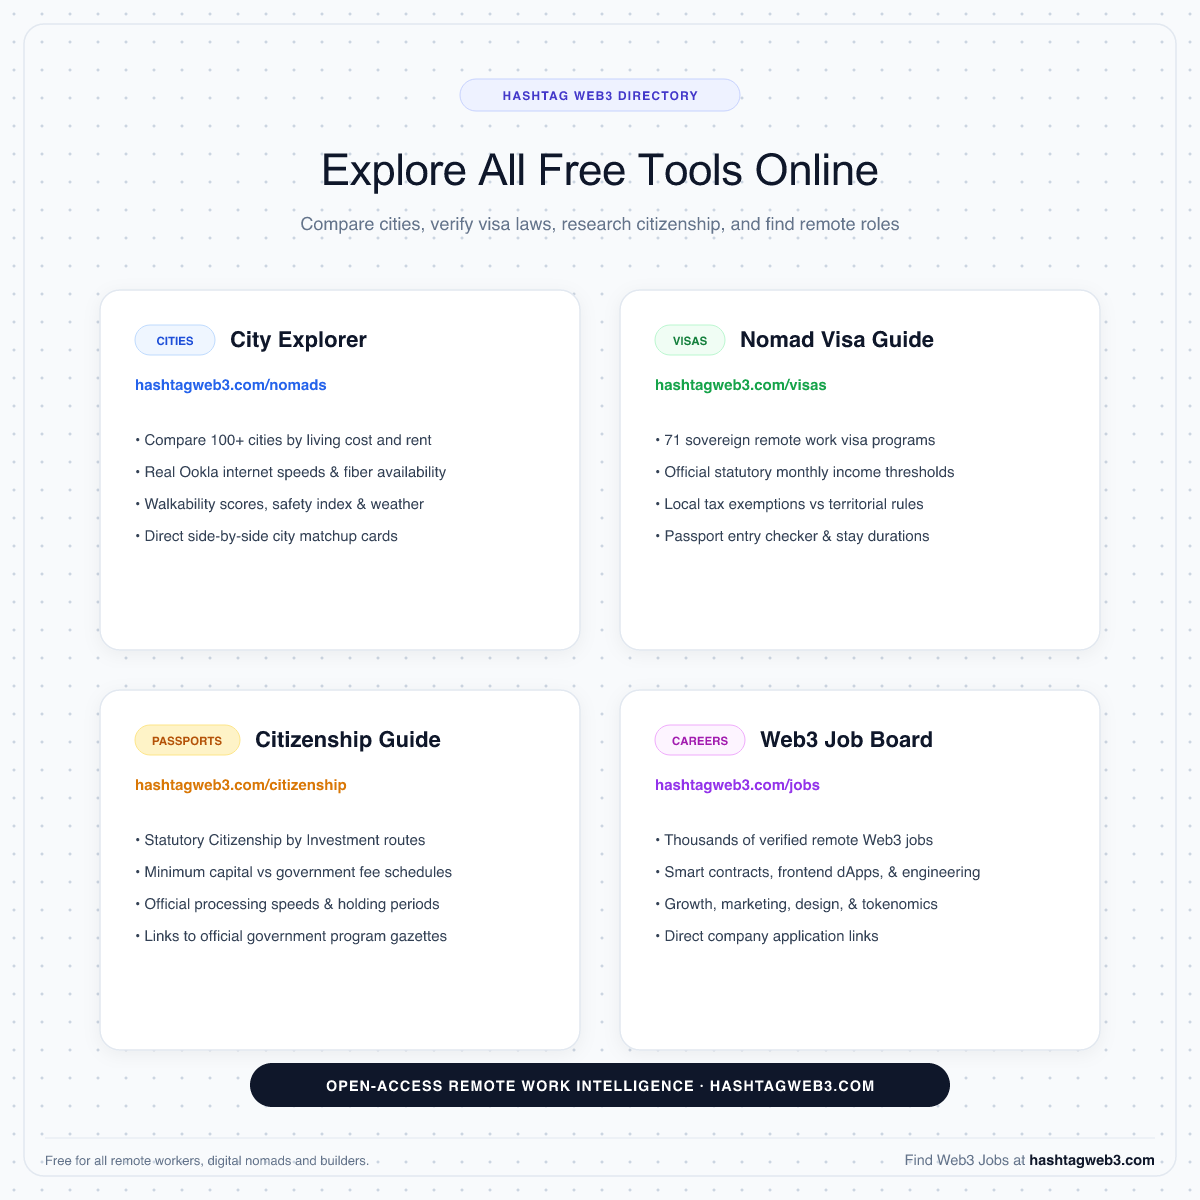
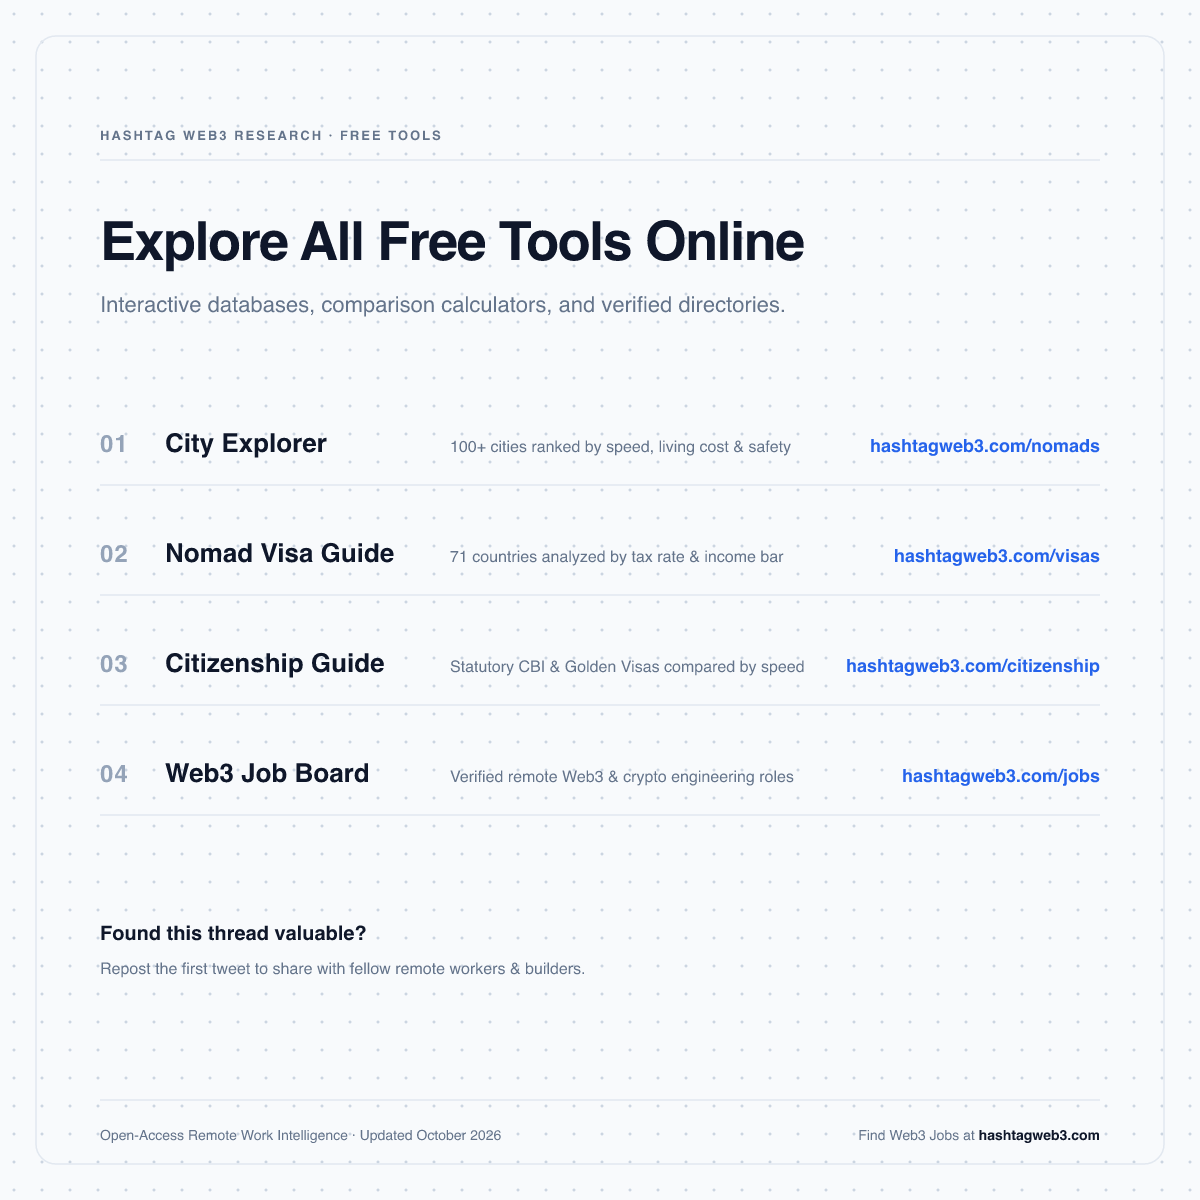
feat(social): redesign thread outro card with minimal Swiss typography (no pills, no cards)

diff --git a/scripts/generate-thread-cover-outro.ts b/scripts/generate-thread-cover-outro.ts
@@ -125,109 +125,82 @@ function buildCoverSvg(): string {
 }
 
 function buildOutroSvg(): string {
-  return `<svg width="1200" height="1200" viewBox="0 0 1200 1200" xmlns="http://www.w3.org/2000/svg" style="background:#FFFFFF; font-family:system-ui,-apple-system,'SF Pro Display','Segoe UI',Roboto,Helvetica,sans-serif;">
+  return `<svg width="1200" height="1200" viewBox="0 0 1200 1200" xmlns="http://www.w3.org/2000/svg" style="background:#F8FAFC; font-family:system-ui,-apple-system,'SF Pro Display','Segoe UI',Roboto,Helvetica,sans-serif;">
   <defs>
     <!-- Dot Grid Pattern -->
     <pattern id="dotGridOutro" width="28" height="28" patternUnits="userSpaceOnUse">
       <circle cx="14" cy="14" r="1.5" fill="#CBD5E1" />
     </pattern>
-    <filter id="outroShadow" x="-5%" y="-5%" width="110%" height="110%">
-      <feDropShadow dx="0" dy="4" stdDeviation="8" flood-color="#0F172A" flood-opacity="0.05"/>
-    </filter>
   </defs>
 
-  <!-- Background Canvas -->
-  <rect width="1200" height="1200" fill="#F8FAFC"/>
-  <rect width="1200" height="1200" fill="url(#dotGridOutro)"/>
-  <rect x="24" y="24" width="1152" height="1152" rx="20" fill="none" stroke="#E2E8F0" stroke-width="1.5"/>
+  <!-- Background Canvas with Dot Grid -->
+  <rect width="1200" height="1200" fill="#F8FAFC" />
+  <rect width="1200" height="1200" fill="url(#dotGridOutro)" />
+  <rect x="36" y="36" width="1128" height="1128" rx="20" fill="none" stroke="#E2E8F0" stroke-width="1.5" />
 
-  <!-- Top Category Pill -->
-  <g transform="translate(600, 95)">
-    <rect x="-140" y="-16" width="280" height="32" rx="16" fill="#EEF2FF" stroke="#C7D2FE" stroke-width="1"/>
-    <text x="0" y="5" text-anchor="middle" font-size="12" font-weight="700" fill="#4338CA" letter-spacing="1.2">HASHTAG WEB3 DIRECTORY</text>
+  <!-- Top Kicker Header -->
+  <g transform="translate(100, 140)">
+    <text x="0" y="0" font-size="13" font-weight="800" fill="#64748B" letter-spacing="2">HASHTAG WEB3 RESEARCH · FREE TOOLS</text>
+    <line x1="0" y1="20" x2="1000" y2="20" stroke="#E2E8F0" stroke-width="1.5" />
   </g>
 
-  <!-- Main Headline -->
-  <text x="600" y="185" text-anchor="middle" font-family="-apple-system, BlinkMacSystemFont, 'SF Pro Display', 'Segoe UI', Roboto, sans-serif" font-size="44" font-weight="800" fill="#0F172A" letter-spacing="-0.5px">Explore All Free Tools Online</text>
-  <text x="600" y="230" text-anchor="middle" font-size="18" font-weight="500" fill="#64748B">Compare cities, verify visa laws, research citizenship, and find remote roles</text>
+  <!-- Big Bold Headline & Subtitle (Minimal, No Fluff) -->
+  <g transform="translate(100, 260)">
+    <text x="0" y="0" font-size="54" font-weight="900" fill="#0F172A" letter-spacing="-1.5px">Explore All Free Tools Online</text>
+    <text x="0" y="52" font-size="22" font-weight="500" fill="#64748B">Interactive databases, comparison calculators, and verified directories.</text>
+  </g>
 
-  <!-- 4 Core Resources Grid -->
-  <g transform="translate(100, 290)">
-    <!-- Resource 1: City Explorer -->
+  <!-- 4 Clean Typographic Directory Rows (Zero Pills, Zero Cards, Zero AI Slop) -->
+  <g transform="translate(100, 420)">
+    <!-- Row 1: Cities -->
     <g transform="translate(0, 0)">
-      <rect width="480" height="360" rx="20" fill="#FFFFFF" stroke="#E2E8F0" stroke-width="1.5" filter="url(#outroShadow)"/>
-      <rect x="35" y="35" width="80" height="30" rx="15" fill="#EFF6FF" stroke="#BFDBFE" stroke-width="1"/>
-      <text x="75" y="55" text-anchor="middle" font-size="11.5" font-weight="700" fill="#1D4ED8">CITIES</text>
-      <text x="130" y="57" font-size="22" font-weight="700" fill="#0F172A">City Explorer</text>
-      <text x="35" y="100" font-size="15" font-weight="600" fill="#2563EB">hashtagweb3.com/nomads</text>
-      
-      <text x="35" y="155" font-size="15" font-weight="500" fill="#334155">
-        <tspan x="35" dy="0">• Compare 100+ cities by living cost and rent</tspan>
-        <tspan x="35" dy="32">• Real Ookla internet speeds &amp; fiber availability</tspan>
-        <tspan x="35" dy="32">• Walkability scores, safety index &amp; weather</tspan>
-        <tspan x="35" dy="32">• Direct side-by-side city matchup cards</tspan>
-      </text>
+      <text x="0" y="32" font-size="24" font-weight="800" fill="#94A3B8" letter-spacing="1">01</text>
+      <text x="65" y="32" font-size="26" font-weight="800" fill="#0F172A">City Explorer</text>
+      <text x="350" y="32" font-size="16" font-weight="500" fill="#64748B">100+ cities ranked by speed, living cost &amp; safety</text>
+      <text x="1000" y="32" text-anchor="end" font-size="18" font-weight="700" fill="#2563EB">hashtagweb3.com/nomads</text>
+      <line x1="0" y1="65" x2="1000" y2="65" stroke="#E2E8F0" stroke-width="1.5" />
     </g>
 
-    <!-- Resource 2: Nomad Visas -->
-    <g transform="translate(520, 0)">
-      <rect width="480" height="360" rx="20" fill="#FFFFFF" stroke="#E2E8F0" stroke-width="1.5" filter="url(#outroShadow)"/>
-      <rect x="35" y="35" width="70" height="30" rx="15" fill="#F0FDF4" stroke="#BBF7D0" stroke-width="1"/>
-      <text x="70" y="55" text-anchor="middle" font-size="11.5" font-weight="700" fill="#15803D">VISAS</text>
-      <text x="120" y="57" font-size="22" font-weight="700" fill="#0F172A">Nomad Visa Guide</text>
-      <text x="35" y="100" font-size="15" font-weight="600" fill="#16A34A">hashtagweb3.com/visas</text>
-
-      <text x="35" y="155" font-size="15" font-weight="500" fill="#334155">
-        <tspan x="35" dy="0">• 71 sovereign remote work visa programs</tspan>
-        <tspan x="35" dy="32">• Official statutory monthly income thresholds</tspan>
-        <tspan x="35" dy="32">• Local tax exemptions vs territorial rules</tspan>
-        <tspan x="35" dy="32">• Passport entry checker &amp; stay durations</tspan>
-      </text>
+    <!-- Row 2: Visas -->
+    <g transform="translate(0, 110)">
+      <text x="0" y="32" font-size="24" font-weight="800" fill="#94A3B8" letter-spacing="1">02</text>
+      <text x="65" y="32" font-size="26" font-weight="800" fill="#0F172A">Nomad Visa Guide</text>
+      <text x="350" y="32" font-size="16" font-weight="500" fill="#64748B">71 countries analyzed by tax rate &amp; income bar</text>
+      <text x="1000" y="32" text-anchor="end" font-size="18" font-weight="700" fill="#2563EB">hashtagweb3.com/visas</text>
+      <line x1="0" y1="65" x2="1000" y2="65" stroke="#E2E8F0" stroke-width="1.5" />
     </g>
 
-    <!-- Resource 3: Passports & Citizenship -->
-    <g transform="translate(0, 400)">
-      <rect width="480" height="360" rx="20" fill="#FFFFFF" stroke="#E2E8F0" stroke-width="1.5" filter="url(#outroShadow)"/>
-      <rect x="35" y="35" width="105" height="30" rx="15" fill="#FEF3C7" stroke="#FDE68A" stroke-width="1"/>
-      <text x="87" y="55" text-anchor="middle" font-size="11.5" font-weight="700" fill="#B45309">PASSPORTS</text>
-      <text x="155" y="57" font-size="22" font-weight="700" fill="#0F172A">Citizenship Guide</text>
-      <text x="35" y="100" font-size="15" font-weight="600" fill="#D97706">hashtagweb3.com/citizenship</text>
-
-      <text x="35" y="155" font-size="15" font-weight="500" fill="#334155">
-        <tspan x="35" dy="0">• Statutory Citizenship by Investment routes</tspan>
-        <tspan x="35" dy="32">• Minimum capital vs government fee schedules</tspan>
-        <tspan x="35" dy="32">• Official processing speeds &amp; holding periods</tspan>
-        <tspan x="35" dy="32">• Links to official government program gazettes</tspan>
-      </text>
+    <!-- Row 3: Citizenship -->
+    <g transform="translate(0, 220)">
+      <text x="0" y="32" font-size="24" font-weight="800" fill="#94A3B8" letter-spacing="1">03</text>
+      <text x="65" y="32" font-size="26" font-weight="800" fill="#0F172A">Citizenship Guide</text>
+      <text x="350" y="32" font-size="16" font-weight="500" fill="#64748B">Statutory CBI &amp; Golden Visas compared by speed</text>
+      <text x="1000" y="32" text-anchor="end" font-size="18" font-weight="700" fill="#2563EB">hashtagweb3.com/citizenship</text>
+      <line x1="0" y1="65" x2="1000" y2="65" stroke="#E2E8F0" stroke-width="1.5" />
     </g>
 
-    <!-- Resource 4: Web3 Job Board -->
-    <g transform="translate(520, 400)">
-      <rect width="480" height="360" rx="20" fill="#FFFFFF" stroke="#E2E8F0" stroke-width="1.5" filter="url(#outroShadow)"/>
-      <rect x="35" y="35" width="90" height="30" rx="15" fill="#FDF4FF" stroke="#F0ABFC" stroke-width="1"/>
-      <text x="80" y="55" text-anchor="middle" font-size="11.5" font-weight="700" fill="#A21CAF">CAREERS</text>
-      <text x="140" y="57" font-size="22" font-weight="700" fill="#0F172A">Web3 Job Board</text>
-      <text x="35" y="100" font-size="15" font-weight="600" fill="#9333EA">hashtagweb3.com/jobs</text>
-
-      <text x="35" y="155" font-size="15" font-weight="500" fill="#334155">
-        <tspan x="35" dy="0">• Thousands of verified remote Web3 jobs</tspan>
-        <tspan x="35" dy="32">• Smart contracts, frontend dApps, &amp; engineering</tspan>
-        <tspan x="35" dy="32">• Growth, marketing, design, &amp; tokenomics</tspan>
-        <tspan x="35" dy="32">• Direct company application links</tspan>
-      </text>
+    <!-- Row 4: Careers -->
+    <g transform="translate(0, 330)">
+      <text x="0" y="32" font-size="24" font-weight="800" fill="#94A3B8" letter-spacing="1">04</text>
+      <text x="65" y="32" font-size="26" font-weight="800" fill="#0F172A">Web3 Job Board</text>
+      <text x="350" y="32" font-size="16" font-weight="500" fill="#64748B">Verified remote Web3 &amp; crypto engineering roles</text>
+      <text x="1000" y="32" text-anchor="end" font-size="18" font-weight="700" fill="#2563EB">hashtagweb3.com/jobs</text>
+      <line x1="0" y1="65" x2="1000" y2="65" stroke="#E2E8F0" stroke-width="1.5" />
     </g>
   </g>
 
-  <!-- Bottom CTA Pill -->
-  <g transform="translate(600, 1085)">
-    <rect x="-350" y="-22" width="700" height="44" rx="22" fill="#0F172A"/>
-    <text x="0" y="6" text-anchor="middle" font-size="14.5" font-weight="700" fill="#FFFFFF" letter-spacing="1">OPEN-ACCESS REMOTE WORK INTELLIGENCE · HASHTAGWEB3.COM</text>
+  <!-- Bottom Direct CTA -->
+  <g transform="translate(100, 940)">
+    <text x="0" y="0" font-size="20" font-weight="800" fill="#0F172A">Found this thread valuable?</text>
+    <text x="0" y="34" font-size="16" font-weight="500" fill="#64748B">Repost the first tweet to share with fellow remote workers &amp; builders.</text>
   </g>
 
-  <!-- Footer Footnotes & Watermark -->
-  <line x1="45" y1="1138" x2="1155" y2="1138" stroke="#E2E8F0" stroke-width="1"/>
-  <text x="45" y="1165" font-size="13" font-weight="400" fill="#64748B">Free for all remote workers, digital nomads and builders.</text>
-  <text x="1155" y="1165" text-anchor="end" font-size="14.5"><tspan fill="#64748B" font-weight="500">Find Web3 Jobs at </tspan><tspan fill="#0F172A" font-weight="700">hashtagweb3.com</tspan></text>
+  <!-- Clean Minimal Footer -->
+  <g transform="translate(100, 1100)">
+    <line x1="0" y1="0" x2="1000" y2="0" stroke="#E2E8F0" stroke-width="1.5" />
+    <text x="0" y="40" font-size="14" font-weight="500" fill="#64748B">Open-Access Remote Work Intelligence · Updated October 2026</text>
+    <text x="1000" y="40" text-anchor="end" font-size="14"><tspan fill="#64748B" font-weight="500">Find Web3 Jobs at </tspan><tspan fill="#0F172A" font-weight="700">hashtagweb3.com</tspan></text>
+  </g>
 </svg>`;
 }
 
